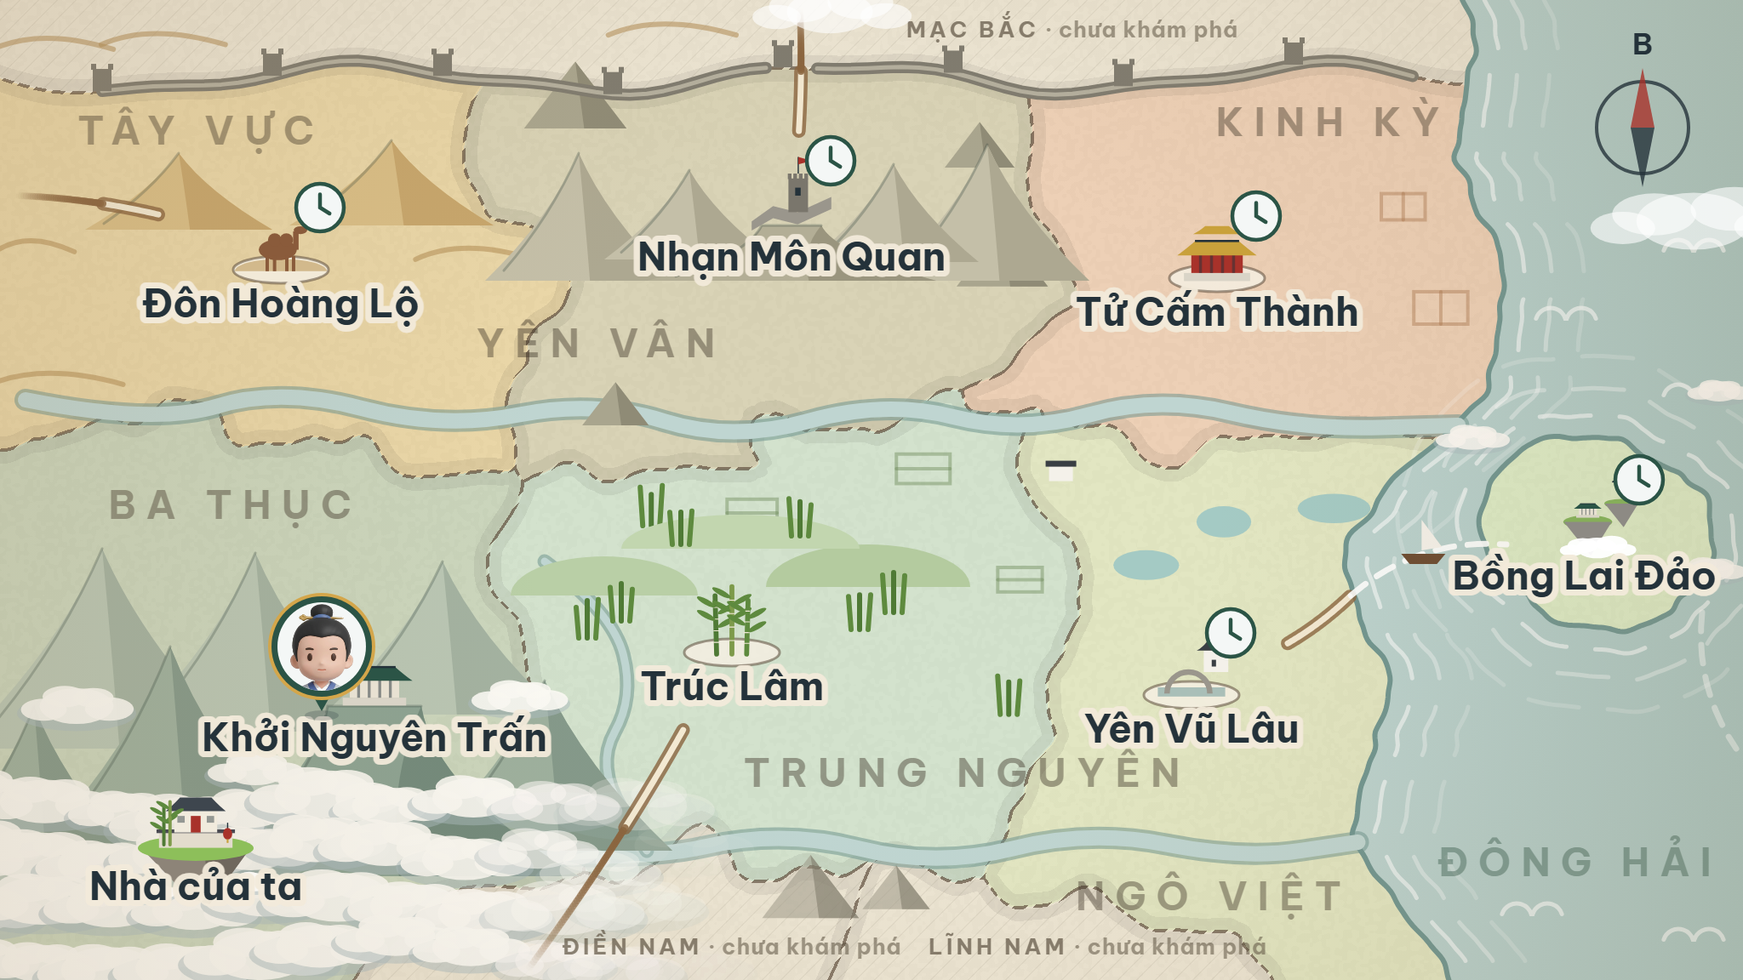
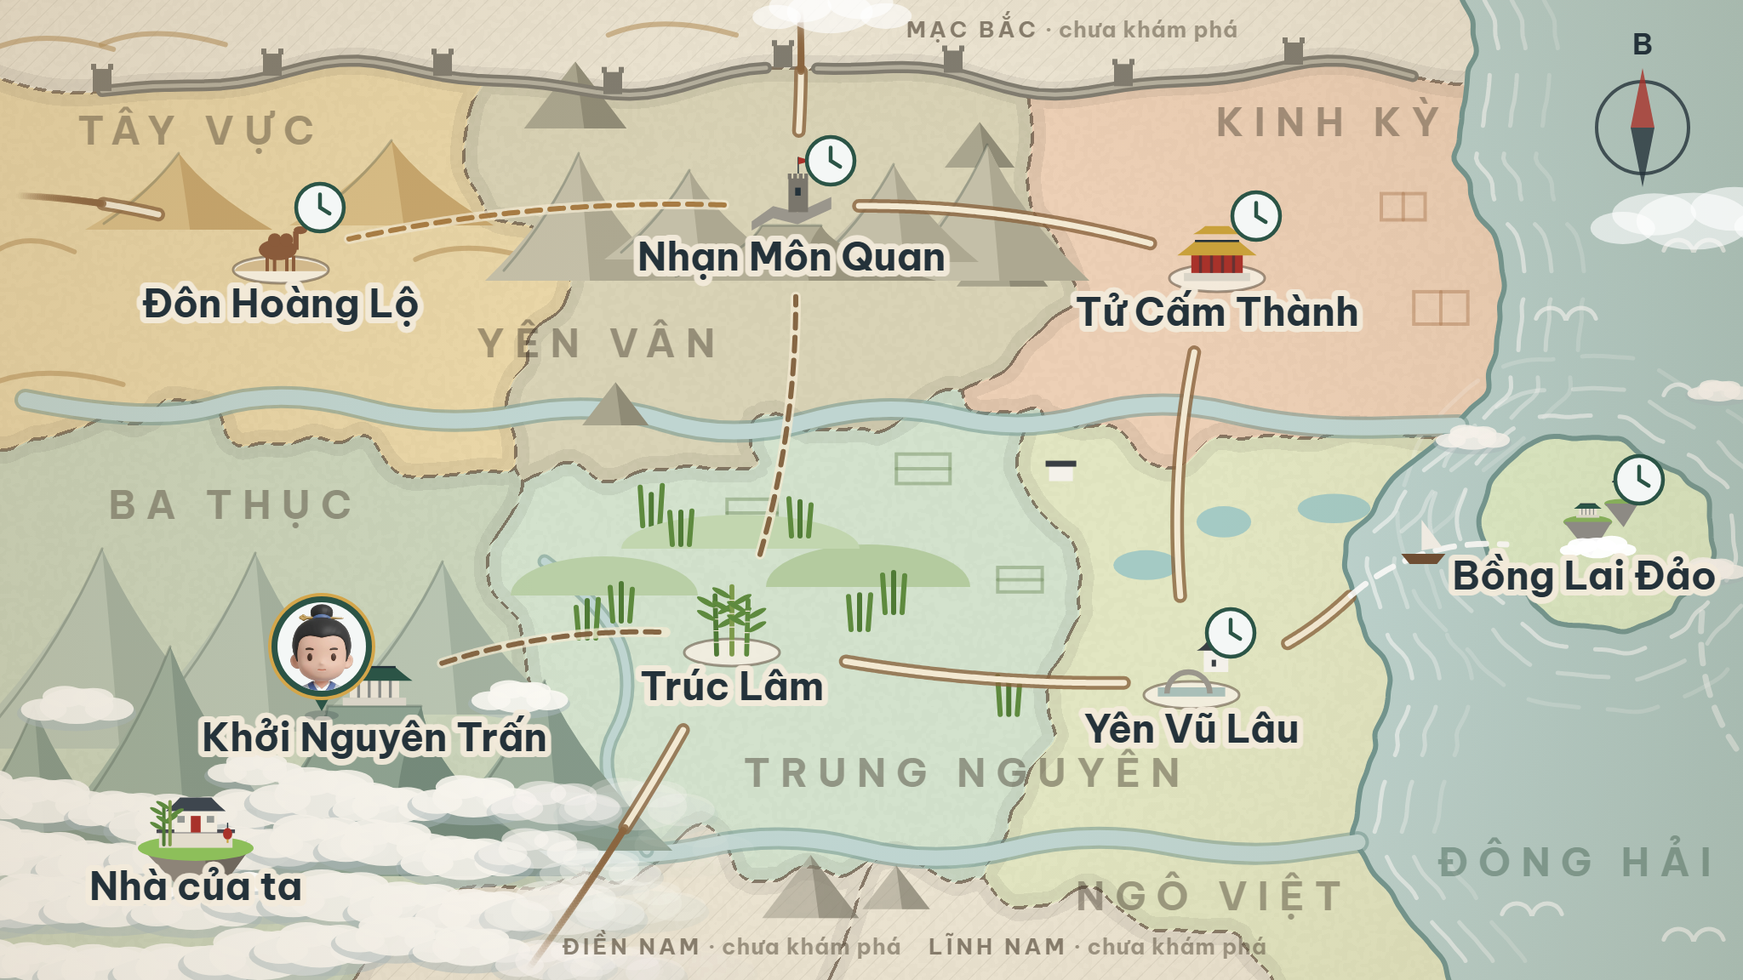
V-59: cổng đi bộ nối vùng lân cận — 6 cặp mới (12 vòng sáng) + đường bộ trên bản đồ truyền tống
- Trúc Lâm: vòng "Yên Vũ Lâu" mép đông (20,6; 43) cuối lối nhánh từ sân cửa rừng; vòng "Nhạn Môn Quan"
  mép bắc (−5; −44,2) cuối lối nhánh dưới chân thác
- Yên Vũ Lâu: "Trúc Lâm" đầu tây Hà Nhai (−30,2; −2); "Tử Cấm Thành" sau Lâu Ngắm sát tường bắc (25; −24,4)
  + lối x 25; "Bồng Lai Đảo" bờ cuối kênh cạnh Thuyền Thị (30,6; −14)
- Nhạn Môn Quan: "Trúc Lâm" cuối trục doanh trại (0; 49) + lối nối; "Đôn Hoàng Lộ" / "Tử Cấm Thành" hai đầu
  đường chân tường (∓43,2; −3)
- Đôn Hoàng Lộ: "Nhạn Môn Quan" khe đụn cát phía đông (46,6; 19,5) + lối cát từ Sa Châu Thị
- Tử Cấm Thành: "Yên Vũ Lâu" cuối ngự đạo nam (0; 81); cổng Tây Hoa Môn (tường tây z 54) + lối, vòng
  "Nhạn Môn Quan" ngoài cổng (−63; 54)
- Bồng Lai Đảo: "Yên Vũ Lâu" đầu bến Vân Độ phía tây cầu tàu (−9; 42,2) + lối ngắn
- scene:check: thiếu cổng về → lỗi; nhãn phải = ten của ban-do.json (checkPortalLabels); vùng vòng phải
  phẳng; chỗ đứng phải quay vào trong cảnh; hai cổng cách ≥ 3 m
- ve-ban-do.html: LAND_ROUTES (quan đạo / đường mòn / đường cát) dừng trước khung biểu tượng + nhãn;
  vẽ lại ban-do-goc.png, BanDo-trang-thai.png
- sổ quy tắc R-HANH-4, R-BANDO-2 (chờ, chưa đồng bộ online); test capCong, areaMapScenes, portals, placeNames

diff --git a/web/src/capCong.test.ts b/web/src/capCong.test.ts
@@ -1,0 +1,88 @@
+import { describe, expect, it } from 'vitest';
+import { HOME_SCENE, loadScene, REGION_SCENES } from './scene/loadSpec';
+import { arrivalFor, checkPortals, portalRect } from './scene/portals';
+import type { PathSpec, PortalSpec } from './scene/spec';
+import { placeName } from './zones/journeyMap';
+
+// Cổng đi bộ nối các vùng lân cận theo bản đồ truyền tống (R-HANH-4, V-59) — đọc đặc tả thật design/scene/*.json.
+const IDS = [HOME_SCENE, ...REGION_SCENES];
+const SPECS = Object.fromEntries(IDS.map((id) => [id, loadScene(id).spec]));
+
+/** 8 cặp: Nhà của ta ↔ trấn, trấn ↔ Trúc Lâm (V-57) + 6 cặp vùng V-59 (đã duyệt). */
+const PAIRS: [string, string][] = [
+  ['nha-ta', HOME_SCENE],
+  [HOME_SCENE, 'rung-truc'],
+  ['rung-truc', 'giang-nam'],
+  ['rung-truc', 'truong-thanh'],
+  ['truong-thanh', 'to-lua'],
+  ['truong-thanh', 'tu-cam-thanh'],
+  ['giang-nam', 'tu-cam-thanh'],
+  ['giang-nam', 'bong-lai'],
+];
+
+/** Cổng V-59: cảnh → cảnh đích → mép cảnh đúng hướng nơi đến trên bản đồ (x đông, z nam), tâm vòng, chỗ đứng khi tới. */
+const NEW: { from: string; to: string; side: 'dong' | 'tay' | 'bac' | 'nam'; at: [number, number]; arrive: [number, number] }[] = [
+  { from: 'rung-truc', to: 'giang-nam', side: 'dong', at: [20.6, 43], arrive: [17, 43] },
+  { from: 'rung-truc', to: 'truong-thanh', side: 'bac', at: [-5, -44.2], arrive: [-3.7, -41.2] },
+  { from: 'giang-nam', to: 'rung-truc', side: 'tay', at: [-30.2, -2], arrive: [-26.4, -2.3] },
+  { from: 'giang-nam', to: 'tu-cam-thanh', side: 'bac', at: [25, -24.4], arrive: [25, -21] },
+  { from: 'giang-nam', to: 'bong-lai', side: 'dong', at: [30.6, -14], arrive: [27.4, -14.6] }, // bờ cuối kênh cạnh Thuyền Thị
+  { from: 'truong-thanh', to: 'rung-truc', side: 'nam', at: [0, 49], arrive: [0, 45.4] },
+  { from: 'truong-thanh', to: 'to-lua', side: 'tay', at: [-43.2, -3], arrive: [-39.6, -3] },
+  { from: 'truong-thanh', to: 'tu-cam-thanh', side: 'dong', at: [43.2, -3], arrive: [39.6, -3] },
+  { from: 'to-lua', to: 'truong-thanh', side: 'dong', at: [46.6, 19.5], arrive: [43, 20] },
+  { from: 'tu-cam-thanh', to: 'giang-nam', side: 'nam', at: [0, 81], arrive: [0, 77] },
+  { from: 'tu-cam-thanh', to: 'truong-thanh', side: 'tay', at: [-63, 54], arrive: [-57.4, 54] }, // ngoài cổng Tây Hoa Môn; tới đứng trong cổng
+  { from: 'bong-lai', to: 'giang-nam', side: 'nam', at: [-9, 42.2], arrive: [-5, 41.8] }, // đầu cầu tàu Vân Độ (bến thuyền), phía tây
+];
+
+const portalOf = (from: string, to: string): PortalSpec | undefined => SPECS[from].portals.find((p) => p.scene === to);
+const center = (p: PortalSpec): [number, number] => {
+  const r = portalRect(p);
+  return [(r.minX + r.maxX) / 2, (r.minZ + r.maxZ) / 2];
+};
+/** Khoảng cách từ điểm tới mép lối lát (0 = trên lối). */
+const toPath = (x: number, z: number, p: PathSpec): number => {
+  const [x0, z0] = p.from;
+  const [dx, dz] = [p.to[0] - x0, p.to[1] - z0];
+  const t = Math.max(0, Math.min(1, ((x - x0) * dx + (z - z0) * dz) / (dx * dx + dz * dz || 1)));
+  return Math.max(0, Math.hypot(x - x0 - t * dx, z - z0 - t * dz) - p.width / 2);
+};
+
+describe('cổng đi bộ nối vùng lân cận (R-HANH-4, V-59)', () => {
+  it('R-HANH-4: đúng 8 cặp cổng, cặp nào cũng hai chiều; ngoài các cặp đó không có cổng nào', () => {
+    const all = IDS.flatMap((id) => SPECS[id].portals.map((p) => [id, p.scene].sort().join(' ↔ ')));
+    const pairs = PAIRS.map((p) => [...p].sort().join(' ↔ '));
+    expect([...new Set(all)].sort()).toEqual([...pairs].sort());
+    for (const [a, b] of PAIRS) {
+      expect(portalOf(a, b), `${a} → ${b}`).toBeDefined();
+      expect(portalOf(b, a), `${b} → ${a}`).toBeDefined();
+    }
+    // Nhà của ta chỉ nối với trấn
+    expect(SPECS['nha-ta'].portals.map((p) => p.scene)).toEqual([HOME_SCENE]);
+  });
+
+  it('R-HANH-4: nhãn vòng = tên nơi đến (một nguồn — placeName / ban-do.json), riêng cổng về Nhà của ta ghi "Về nhà"; mọi cảnh không lỗi cổng', () => {
+    for (const id of IDS) {
+      for (const p of SPECS[id].portals) expect(p.label, `${id} → ${p.scene}`).toBe(p.scene === 'nha-ta' ? 'Về nhà' : placeName(p.scene));
+      expect(checkPortals(SPECS[id]), id).toEqual([]);
+    }
+  });
+
+  for (const c of NEW) {
+    it(`R-HANH-4: ${placeName(c.from)} → vòng "${placeName(c.to)}" ở mép ${c.side} (${c.at.join('; ')}) cuối lối; tới từ ${placeName(c.to)} đứng (${c.arrive.join('; ')}) quay vào trong`, () => {
+      const p = portalOf(c.from, c.to)!;
+      const [x, z] = center(p);
+      expect(x).toBeCloseTo(c.at[0]);
+      expect(z).toBeCloseTo(c.at[1]);
+      const out = { dong: x > 15, tay: x < -15, bac: z < -15, nam: z > 15 }[c.side];
+      expect(out).toBe(true);
+      // cuối một lối lát (vòng chạm / sát mép lối)
+      expect(Math.min(...SPECS[c.from].paths.map((q) => toPath(x, z, q)))).toBeLessThanOrEqual(2);
+      // tới qua cổng từ nơi kia → đứng trước vòng, nhìn ra xa vòng
+      const a = arrivalFor(SPECS[c.from].portals, c.to)!;
+      expect(a.at).toEqual(c.arrive);
+      expect(Math.sin(a.rotY) * (a.at[0] - x) + Math.cos(a.rotY) * (a.at[1] - z)).toBeGreaterThan(0);
+    });
+  }
+});

diff --git a/design/scene/ban-do/ve-ban-do.html b/design/scene/ban-do/ve-ban-do.html
@@ -18,6 +18,8 @@
 // trái dưới, quanh là biển mây (cloudSea); Nhà của ta đảo nhỏ nổi trên biển mây, góc trái dưới của trấn; Trúc Lâm thung lũng
 // đồng bằng dưới chân núi (đồi thấp, không giữa dãy núi); Nhạn Môn Quan trên sống núi; Tử Cấm Thành đồng bằng kinh thành;
 // Yên Vũ Lâu sông nước; Bồng Lai Đảo đảo giữa biển, mây quanh; Đôn Hoàng Lộ sa mạc. Biểu tượng nhỏ lại 60 % (S 0,6 → 0,36).
+// V-59 (2026-11-15): đường bộ nối các cặp cổng đi bộ (LAND_ROUTES — quan đạo / đường mòn / đường cát theo miền), dừng trước
+// khung biểu tượng + nhãn hai đầu (clearOf); Yên Vũ Lâu ↔ Bồng Lai giữ đường thuyền.
 // Xuất ảnh: ?xuat → dataURL PNG ghi vào <textarea id="out"> (hoặc gọi window.ready qua DevTools).
 const W = 2048, H = 1152;
 const PAPER = '#F2EADA', INK = '#24323A', JADE = '#2B5446', SON = '#A8322A', GOLD = '#C9A13B';
@@ -382,9 +384,52 @@ function greatWall(g) {
   for (const q of pts) if ((q[0] - 120) % 200 === 0 || Math.abs(q[0] - gate) === 40) { g.fillRect(q[0] - 11, q[1] - 26, 22, 26); g.fillRect(q[0] - 13, q[1] - 32, 6, 7); g.fillRect(q[0] + 7, q[1] - 32, 6, 7); }
   g.restore();
 }
+// V-59: đường mòn (nét đứt mảnh, không viền) — đường núi / đường cát đoàn buôn; quan đạo lát đá dùng road()
+function trail(g, pts, color = 'rgba(122,88,52,.9)') {
+  if (pts.length < 2) return;
+  g.save(); g.lineCap = 'round'; g.lineJoin = 'round';
+  g.strokeStyle = 'rgba(243,233,210,.75)'; g.lineWidth = 12; g.beginPath(); g.moveTo(...pts[0]); for (const q of pts.slice(1)) g.lineTo(...q); g.stroke();
+  g.setLineDash([16, 11]); g.strokeStyle = color; g.lineWidth = 6; g.beginPath(); g.moveTo(...pts[0]); for (const q of pts.slice(1)) g.lineTo(...q); g.stroke();
+  g.restore();
+}
+// khung biểu tượng + nhãn tên từng nơi (cùng số đo với label()) — đường bộ không đi vào khung nào
+function placeBoxes(g) {
+  g.save(); g.font = `700 ${LABEL_VI}px "Be Vietnam Pro"`;
+  const out = PLACES.flatMap(p => {
+    const half = g.measureText(p.name).width / 2 + 7, lx = Math.min(Math.max(p.x, half + 24), W - half - 24);
+    const vy = p.y + LABEL_DY + LABEL_VI * 0.8;
+    return [{ x0: p.x - 62, x1: p.x + 62, y0: p.y - 72, y1: p.y + 46 }, { x0: lx - half, x1: lx + half, y0: vy - LABEL_VI * 0.8 - 4, y1: vy + 14 }];
+  });
+  g.restore(); return out;
+}
+// giữ đoạn liền dài nhất của đường nằm ngoài mọi khung (cách mép m px) — đường dừng trước biểu tượng / chữ hai đầu
+function clearOf(pts, boxes, m = 16) {
+  const free = q => !boxes.some(b => q[0] > b.x0 - m && q[0] < b.x1 + m && q[1] > b.y0 - m && q[1] < b.y1 + m);
+  let best = [], run = [];
+  for (const q of pts) { if (free(q)) { run.push(q); if (run.length > best.length) best = run; } else run = []; }
+  if (best.length < pts.filter(free).length) console.warn('đường bộ cắt ngang khung một nơi khác — chỉnh độ cong');
+  return best;
+}
+// đường bộ nối các cặp cổng đi bộ trong cảnh (R-HANH-4, V-59): [nơi, nơi, độ cong, kiểu]. Yên Vũ Lâu ↔ Bồng Lai: đường thuyền.
+const LAND_ROUTES = [
+  ['van-uyen', 'rung-truc', -60, 'mon'],        // xuống núi Ba Thục → thung lũng Trúc Lâm
+  ['rung-truc', 'giang-nam', 40, 'lat'],        // quan đạo Trung Nguyên → Ngô Việt
+  ['rung-truc', 'truong-thanh', 60, 'mon'],     // đường núi lên Yên Vân
+  ['truong-thanh', 'to-lua', 50, 'cat'],        // đường cát đoàn buôn ra Tây Vực
+  ['truong-thanh', 'tu-cam-thanh', -50, 'lat'], // quan đạo dọc chân Trường Thành về kinh
+  ['giang-nam', 'tu-cam-thanh', -60, 'lat']     // quan đạo Ngô Việt → Kinh Kỳ
+];
+function landRoutes(g) {
+  const boxes = placeBoxes(g), at = p => [p.x, p.y + 10];
+  for (const [a, b, bend, kind] of LAND_ROUTES) {
+    const pts = clearOf(curve(at(P(a)), at(P(b)), bend, 200), boxes);
+    if (kind === 'lat') road(g, pts); else trail(g, pts, kind === 'cat' ? 'rgba(160,112,52,.9)' : undefined);
+  }
+}
 function routes(g) {
   const home = P('van-uyen'), at = p => [p.x, p.y + 10];
   greatWall(g);
+  landRoutes(g);
   // đường cụt vào vùng chưa khám phá (nơi mới sau này)
   road(g, trim(curve(at(P('rung-truc')), [620, 1140], -20), 120, 0), 0.4);                     // → Điền Nam
   road(g, trim(curve(at(P('truong-thanh')), [P('truong-thanh').x + 10, 12], 10), 90, 0), 0.5); // → Mạc Bắc qua cổng

diff --git a/web/src/scene/portals.ts b/web/src/scene/portals.ts
@@ -22,7 +22,13 @@ function gapTo(p: Pick<PortalSpec, 'area'>, x: number, z: number): number {
   return Math.hypot(dx, dz);
 }
 
-/** Lỗi cổng trong một cảnh: vùng rỗng, chỗ đứng trong / sát vùng, trùng cảnh đích, chồng vòng trận. */
+/** Hai cổng trong một cảnh phải cách nhau ít nhất bấy nhiêu mét (mép vùng chạm / chỗ đứng) — không trùng, không lỡ chân. */
+const PORTAL_GAP = 3;
+
+/**
+ * Lỗi cổng trong một cảnh: vùng rỗng, chỗ đứng trong / sát vùng, chỗ đứng quay mặt vào vòng (phải quay vào trong cảnh,
+ * lưng về vòng — R-HANH-4), trùng cảnh đích, chồng vòng trận, hai cổng sát nhau.
+ */
 export function checkPortals(s: Pick<SceneSpec, 'portals' | 'teleport'>): string[] {
   const out: string[] = [];
   const seen = new Set<string>();
@@ -33,12 +39,29 @@ export function checkPortals(s: Pick<SceneSpec, 'portals' | 'teleport'>): string
     seen.add(p.scene);
     const r = portalRect(p);
     if (r.maxX - r.minX < 0.5 || r.maxZ - r.minZ < 0.5) out.push(`${name}: vùng chạm hẹp dưới 0,5 m — nới area`);
-    const gap = gapTo(p, ...p.arrive.at);
+    const [ax, az] = p.arrive.at;
+    const gap = gapTo(p, ax, az);
     if (gap < ARRIVE_GAP) out.push(`${name}: chỗ đứng (arrive) cách vùng chạm ${gap.toFixed(1)} m — dời ra ngoài (≥ ${ARRIVE_GAP} m)`);
+    // hướng nhìn (rotY 0 = +z) phải ra xa tâm vòng: vừa tới thấy cảnh, không thấy ngay vòng vừa bước ra
+    const a = (p.arrive.rotY * Math.PI) / 180;
+    const away = Math.sin(a) * (ax - (r.minX + r.maxX) / 2) + Math.cos(a) * (az - (r.minZ + r.maxZ) / 2);
+    if (gap >= ARRIVE_GAP && away <= 0) out.push(`${name}: chỗ đứng nhìn về phía vòng (arrive.rotY ${p.arrive.rotY}°) — quay vào trong cảnh`);
     const tp = s.teleport;
     if (tp.enabled && gapTo(p, ...tp.center) < ringTrigger(tp)) out.push(`${name}: vùng chạm chồng lên vòng trận — dời cổng hoặc vòng`);
+    s.portals.forEach((q, j) => {
+      if (j === i) return;
+      if (j > i && rectGap(p, q) < PORTAL_GAP) out.push(`${name}: vùng chạm sát cổng portals[${j}] (→ ${q.scene}) dưới ${PORTAL_GAP} m — tách xa`);
+      if (gapTo(p, ...q.arrive.at) < PORTAL_GAP) out.push(`${name}: chỗ đứng của cổng portals[${j}] (→ ${q.scene}) sát vùng chạm này — vừa tới đã lỡ chân sang`);
+    });
   });
   return out;
+}
+
+/** Khoảng cách giữa hai vùng chạm (0 = chồng nhau). */
+function rectGap(p: Pick<PortalSpec, 'area'>, q: Pick<PortalSpec, 'area'>): number {
+  const a = portalRect(p);
+  const b = portalRect(q);
+  return Math.hypot(Math.max(b.minX - a.maxX, 0, a.minX - b.maxX), Math.max(b.minZ - a.maxZ, 0, a.minZ - b.maxZ));
 }
 
 /**

diff --git a/web/src/areaMapScenes.test.ts b/web/src/areaMapScenes.test.ts
@@ -92,9 +92,28 @@ describe('bản đồ vùng — đủ mọi cảnh (R-BANDO-2)', () => {
     expect(m.icons.map((i) => i.kind)).toEqual(['cong-canh']);
   });
 
-  it('R-BANDO-2: Trúc Lâm — vòng "Khởi Nguyên Trấn" (−7,4; 39) phía tây vòng trận ghi "Khởi Nguyên Trấn" (V-57)', () => {
+  it('R-BANDO-2: Trúc Lâm — vòng "Khởi Nguyên Trấn" (−7,4; 39) phía tây vòng trận (V-57), vòng "Yên Vũ Lâu" mép đông (20,6; 43), vòng "Nhạn Môn Quan" mép bắc (−5; −44,2) (V-59)', () => {
     const m = mapOf('rung-truc');
-    expect(m.icons.find((i) => i.kind === 'cong-canh')).toMatchObject({ x: -7.4, z: 39, scene: HOME_SCENE });
-    expect(m.labels.filter((l) => l.kind === 'cong').map((l) => l.text)).toEqual(['Khởi Nguyên Trấn']);
+    const gates = m.icons.filter((i) => i.kind === 'cong-canh');
+    expect(gates.find((g) => g.scene === HOME_SCENE)).toMatchObject({ x: -7.4, z: 39 });
+    expect(gates.find((g) => g.scene === 'giang-nam')).toMatchObject({ x: 20.6, z: 43 });
+    expect(gates.find((g) => g.scene === 'truong-thanh')).toMatchObject({ x: -5, z: -44.2 });
+    expect(m.labels.filter((l) => l.kind === 'cong').map((l) => l.text).sort()).toEqual(['Khởi Nguyên Trấn', 'Nhạn Môn Quan', 'Yên Vũ Lâu']);
   });
+
+  // V-59: mỗi cảnh vẽ đủ dấu cổng + ghi tên nơi đến (không bị bỏ vì chồng nhãn khu)
+  const GATE_NAMES: Record<string, string[]> = {
+    'giang-nam': ['Bồng Lai Đảo', 'Trúc Lâm', 'Tử Cấm Thành'],
+    'truong-thanh': ['Trúc Lâm', 'Tử Cấm Thành', 'Đôn Hoàng Lộ'],
+    'to-lua': ['Nhạn Môn Quan'],
+    'tu-cam-thanh': ['Nhạn Môn Quan', 'Yên Vũ Lâu'],
+    'bong-lai': ['Yên Vũ Lâu'],
+  };
+  for (const [id, names] of Object.entries(GATE_NAMES)) {
+    it(`R-BANDO-2: ${NAMES[id]} — dấu cổng đi bộ ghi ${names.join(', ')} (V-59)`, () => {
+      const m = mapOf(id);
+      expect(m.icons.filter((i) => i.kind === 'cong-canh')).toHaveLength(names.length);
+      expect(m.labels.filter((l) => l.kind === 'cong').map((l) => l.text).sort()).toEqual([...names].sort());
+    });
+  }
 });

diff --git a/web/src/scene/portals.test.ts b/web/src/scene/portals.test.ts
@@ -38,6 +38,25 @@ describe('cổng đi bộ trong đặc tả cảnh (R-HANH-4)', () => {
     expect(portalProblems([TO_HOME], { teleport: tp, player: { start: [10, 38] } }).join()).toMatch(/vòng trận/);
   });
 
+  it('R-HANH-4: chỗ đứng nhìn về phía vòng (không quay vào trong cảnh) → lỗi; nhìn ra xa vòng → không lỗi', () => {
+    expect(portalProblems([{ ...TO_HOME, arrive: { at: [0, 38.4], rotY: 0 } }]).join()).toMatch(/quay vào trong cảnh/);
+    expect(portalProblems([{ ...TO_HOME, arrive: { at: [0, 38.4], rotY: 150 } }])).toEqual([]);
+  });
+
+  it('R-HANH-4: hai cổng sát nhau (< 3 m) hoặc chỗ đứng của cổng này sát vùng cổng kia → lỗi', () => {
+    const near: PortalSpec = { scene: 'rung-truc', area: { from: [3, 43.2], to: [5, 47] }, arrive: { at: [4, 38.4], rotY: 180 } };
+    expect(portalProblems([TO_HOME, near]).join()).toMatch(/sát cổng/);
+    const far: PortalSpec = { scene: 'rung-truc', area: { from: [10, 43.2], to: [12, 47] }, arrive: { at: [2.5, 46], rotY: 90 } };
+    expect(portalProblems([TO_HOME, far]).join()).toMatch(/lỡ chân/);
+    expect(portalProblems([TO_HOME, { ...far, arrive: { at: [11, 38.4], rotY: 180 } }])).toEqual([]);
+  });
+
+  it('R-HANH-4 R-VA-2: vùng chạm vắt sườn dốc → lỗi (vòng sáng nằm phẳng trên mặt đất)', () => {
+    const terrain = { enabled: true, size: 120, plateaus: [{ from: [-20, 20], to: [20, 44], y: 0 }], peaks: [{ x: 0, z: 56, r: 10, h: 8 }] };
+    const errs = resolveSceneSpec({ ...base, player: { start: [0, 30] }, terrain, portals: [{ ...TO_HOME, area: { from: [-1.2, 47], to: [1.2, 52] }, arrive: { at: [0, 42], rotY: 180 } }] }).problems;
+    expect(errs.join()).toMatch(/vùng chạm \(area\)/);
+  });
+
   it('R-HANH-4 R-NHA-1: tới qua cổng → đứng ở chỗ của cổng dẫn về nơi vừa rời, hướng độ → radian', () => {
     const back: PortalSpec = { scene: 'tong-mon', area: { from: [-4, 12.5], to: [4, 16] }, arrive: { at: [0, 10], rotY: 180 } };
     expect(arrivalFor([back], 'tong-mon')).toEqual({ at: [0, 10], rotY: Math.PI });

diff --git a/web/src/scene/placeNames.test.ts b/web/src/scene/placeNames.test.ts
@@ -1,5 +1,5 @@
 import { describe, expect, it } from 'vitest';
-import { checkPlaceNames, mapPlaceId } from './placeNames';
+import { checkPlaceNames, checkPortalLabels, mapPlaceId } from './placeNames';
 
 const places = [
   { id: 'van-uyen', ten: 'Khởi Nguyên Trấn' },
@@ -26,5 +26,22 @@ describe('tên nơi: đặc tả cảnh khớp bản đồ (R-HANH-1, V-50)', ()
   it('R-HUD-4: tên nơi quá dài hoặc có chữ Hán → báo lỗi', () => {
     expect(checkPlaceNames(new Map(), [{ id: 'a', ten: 'Một Cái Tên Dài Quá Mức Cho Phép' }])).toHaveLength(1);
     expect(checkPlaceNames(new Map(), [{ id: 'b', ten: 'Rừng 竹' }])).toHaveLength(1);
+  });
+});
+
+describe('nhãn vòng sáng cổng đi bộ = tên nơi đến (R-HANH-4, V-59)', () => {
+  const map = [...places, { id: 'nha-ta', ten: 'Nhà của ta' }];
+  it('R-HANH-4: nhãn trùng ten của nơi đến (trấn đọc là van-uyen); cổng về Nhà của ta ghi "Về nhà"; cổng không nhãn bỏ qua', () => {
+    const portals = new Map([
+      ['tong-mon', [{ scene: 'rung-truc', label: 'Trúc Lâm' }, { scene: 'nha-ta', label: 'Về nhà' }]],
+      ['rung-truc', [{ scene: 'tong-mon', label: 'Khởi Nguyên Trấn' }, { scene: 'thu-nghiem' }]],
+    ]);
+    expect(checkPortalLabels(portals, map)).toEqual([]);
+  });
+
+  it('R-HANH-4: nhãn lệch tên bản đồ → báo lỗi', () => {
+    const errs = checkPortalLabels(new Map([['tong-mon', [{ scene: 'rung-truc', label: 'Rừng trúc' }]]]), map);
+    expect(errs).toHaveLength(1);
+    expect(errs[0]).toContain('Trúc Lâm');
   });
 });

diff --git a/web/src/scene/placeNames.ts b/web/src/scene/placeNames.ts
@@ -37,3 +37,27 @@ export function checkPlaceNames(
   }
   return out;
 }
+
+/** Cảnh nhà riêng: cổng tới đó ghi "Về nhà", không ghi tên nơi (R-HANH-4). */
+const HOME_OF_PLAYER = 'nha-ta';
+
+/**
+ * Nhãn vòng sáng cổng đi bộ (R-HANH-4, V-59): cổng tới một nơi trên bản đồ ghi đúng `ten` của nơi đó (một nguồn tên —
+ * như `placeName`); riêng cổng về Nhà của ta ghi "Về nhà". `portals` = mã cảnh → cổng của cảnh đó. Trả danh sách lỗi.
+ */
+export function checkPortalLabels(
+  portals: ReadonlyMap<string, readonly { scene: string; label?: string }[]>,
+  places: readonly { id: string; ten: string }[],
+): string[] {
+  const out: string[] = [];
+  for (const [from, list] of portals) {
+    for (const p of list) {
+      if (!p.label || p.scene === HOME_OF_PLAYER) continue;
+      const place = places.find((q) => q.id === mapPlaceId(p.scene));
+      if (place && place.ten !== p.label) {
+        out.push(`cổng ở "${from}" → "${p.scene}": nhãn "${p.label}" nhưng ban-do.json gọi nơi đó là "${place.ten}" — nhãn phải là tên nơi đến (R-HANH-4)`);
+      }
+    }
+  }
+  return out;
+}

diff --git a/web/src/scene/specCheck.ts b/web/src/scene/specCheck.ts
@@ -669,5 +669,10 @@ function checkOnFlatGround(s: SceneSpec): string[] {
   flat('điểm xuất phát (player.start)', box(s.player.start[0], s.player.start[1], 2, 2));
   flat('bãi đáp hạc (crane)', box(...landingPad(s.player.start, START_HEADING, s.crane.padOffset), 2, 2));
   s.portals.forEach((p, i) => flat(`portals[${i}] chỗ đứng (arrive)`, box(p.arrive.at[0], p.arrive.at[1], 2, 2)));
+  // vòng sáng nằm phẳng trên mặt đất ở giữa vùng chạm (R-HANH-4) — vùng chạm phải phẳng, không vắt sườn / mép vực
+  s.portals.forEach((p, i) => {
+    const [a, b] = [p.area.from, p.area.to];
+    flat(`portals[${i}] vùng chạm (area)`, box((a[0] + b[0]) / 2, (a[1] + b[1]) / 2, Math.abs(b[0] - a[0]), Math.abs(b[1] - a[1])));
+  });
   return out;
 }
